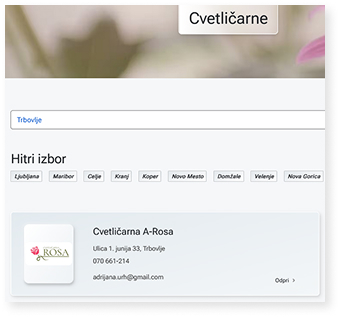
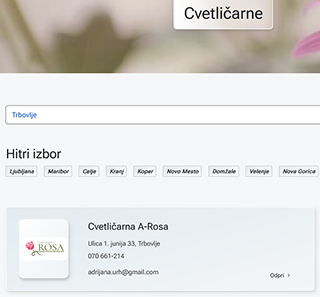
improv: images replaced in Cvetličarne section

diff --git a/app/components/appcomponents/WhatIsIncludedPopup.jsx b/app/components/appcomponents/WhatIsIncludedPopup.jsx
@@ -37,7 +37,7 @@ export default function WhatIsIncludedPopup({ onClose }) {
 
         <div className="flex mobile:flex-col mobile:items-center tablet:flex-row desktop:gap-[105px] tablet:gap-6 mobile:gap-6 w-[766px]">
           <div className="flex-1 mobile:w-[340px] desktop:max-w-[383px]">
-            <div className="desktop:w-[320px] ms-[-6px] desktop:h-[297px] tablet:w-[250px] tablet:h-[232px] mobile:w-[340px] mobile:h-[297px] overflow-hidden">
+            <div className="desktop:w-[320px] ms-[-10px] desktop:h-[297px] tablet:w-[250px] tablet:h-[232px] mobile:w-[340px] mobile:h-[297px] overflow-hidden">
               <img
                 src="/florist/what-is-included-popup/1.png"
                 alt="Seznam lokalnih cvetličarn"
@@ -56,11 +56,11 @@ export default function WhatIsIncludedPopup({ onClose }) {
           </div>
 
           <div className="flex-1 mobile:w-[340px] desktop:max-w-[383px]">
-            <div className="desktop:w-[320px] desktop:h-[297px] tablet:w-[250px] tablet:h-[232px] mobile:w-[340px] mobile:h-[297px] overflow-hidden">
+            <div className="desktop:w-[320px] ms-[-9px] desktop:h-[297px] tablet:w-[250px] tablet:h-[232px] mobile:w-[340px] mobile:h-[297px] overflow-hidden border-none">
               <img
                 src="/florist/what-is-included-popup/2.png"
                 alt="Prikaz na žalnih straneh"
-                className="w-full h-full object-cover"
+                className="w-full h-full object-cover border-none"
               />
             </div>
             <p className="desktop:text-[16px] desktop:leading-[24px] tablet:text-[16px] mobile:text-[16px] text-[#444444] font-normal mt-3">
